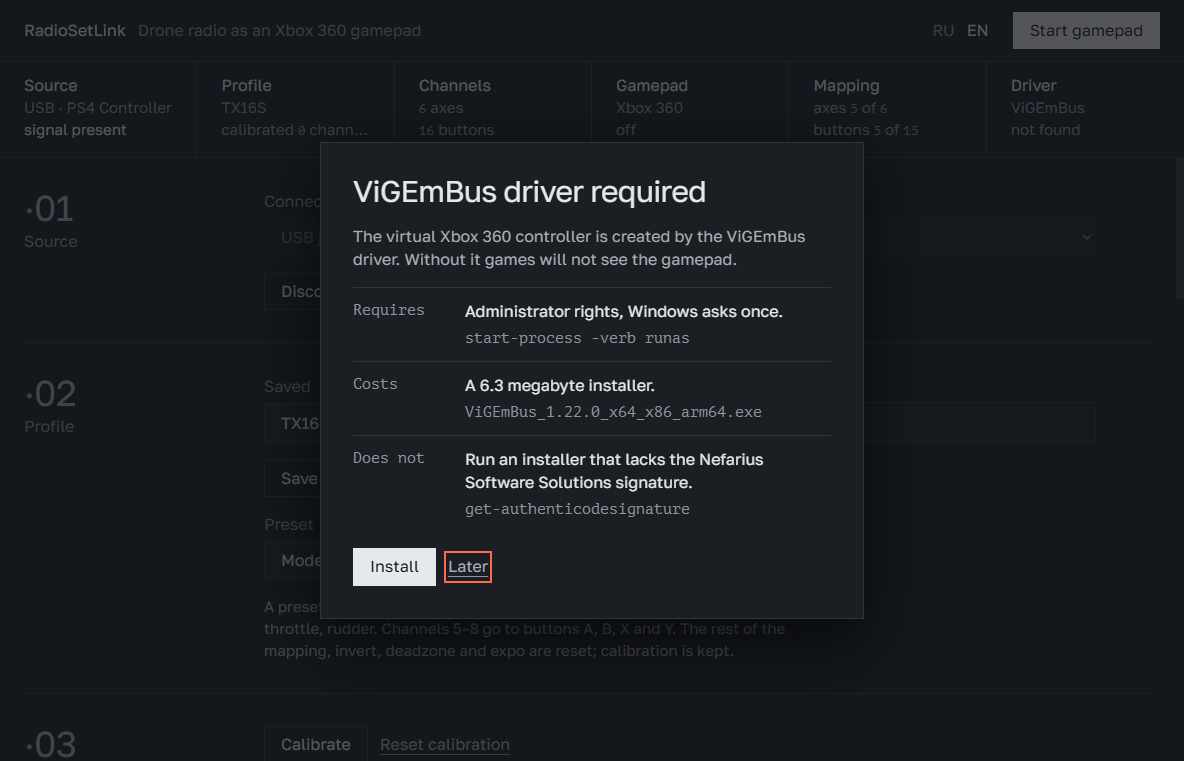
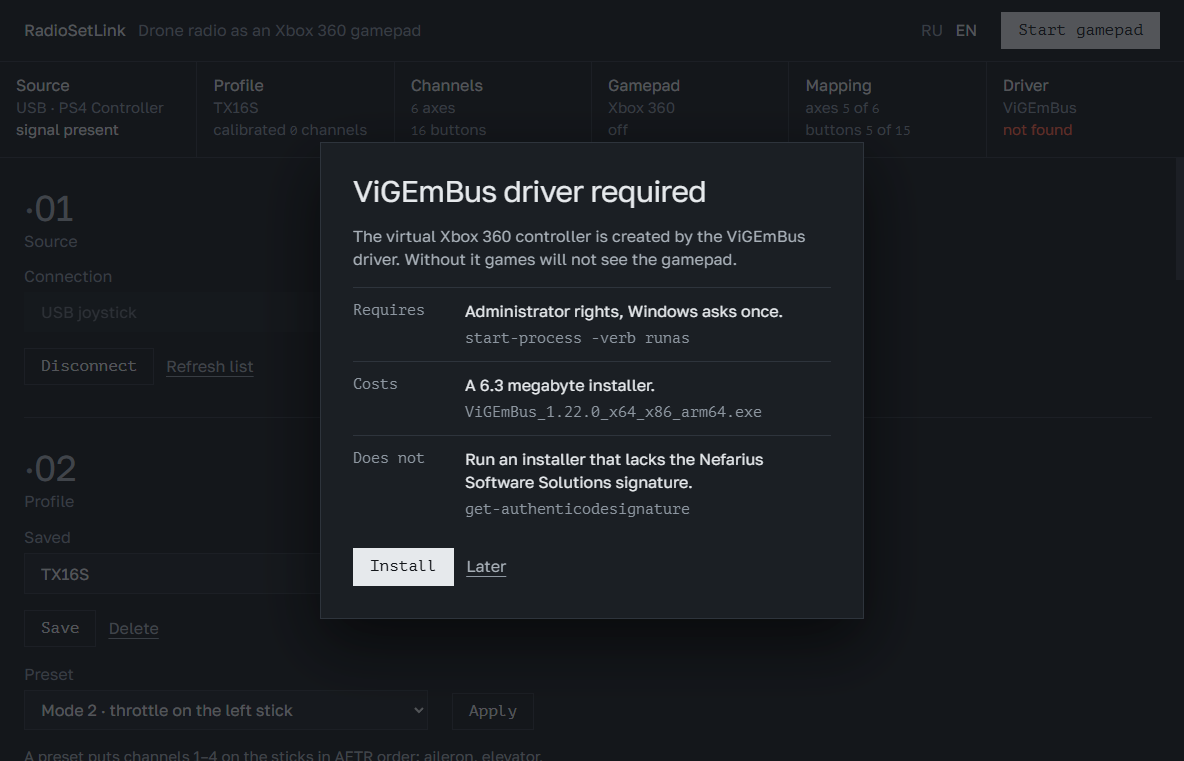
Give capture modes the one colour and fix the narrow-window table
A pressed Assign or Calibrate button took the light fill of the main
action, so "Listening…" looked like the most important button on the
screen. It is a mode that takes over the input until pressed again,
so it is framed in coral now, and lit gamepad keys are a raised fill
in a light frame.

The module facts on the hover fill were 4.37:1 and a missing driver
was not marked, although the notes promised both. Buttons are set in
PT Mono like the reference app, the section labels move above the
tables below 1240 pixels so the axes table stops scrolling sideways,
and the window opens on the page colour instead of black.

diff --git a/rsl/ui/style.css b/rsl/ui/style.css
@@ -22,7 +22,8 @@
   --text: #e6e9ec;
   --text-soft: #a8b0b8;
   --text-dim: #8d96a0;
-  /* The one colour means a deviation: no signal, an error, a missing driver. */
+  /* The one colour means attention: no signal, an error, a missing driver,
+     a capture mode holding the input. */
   --accent: #ff6b4a;
   --on-accent: #130603;
   --bad: var(--accent);
@@ -144,7 +145,7 @@ th {
   display: flex;
   flex-direction: column;
   gap: 0;
-  padding: var(--s-3) var(--s-6) var(--s-4);
+  padding: var(--s-3) var(--s-4) var(--s-4);
   border-right: 1px solid var(--hairline);
   color: inherit;
   text-decoration: none;
@@ -155,8 +156,9 @@ th {
   border-right: 0;
 }
 
+/* --raised, not --hover: the dim facts on --hover are 4.37:1. */
 .module:hover {
-  background: var(--hover);
+  background: var(--raised);
 }
 
 .module b {
@@ -352,6 +354,7 @@ input[type="checkbox"]:checked {
   background: transparent;
   color: var(--text);
   font: inherit;
+  font-family: var(--font-mono);
   line-height: 1.2;
   white-space: nowrap;
   cursor: pointer;
@@ -379,10 +382,12 @@ input[type="checkbox"]:checked {
   font-size: var(--t-small);
 }
 
+/* Pressed means a capture mode that takes over the input until it is
+   pressed again, so it carries the one colour, not the main-action fill. */
 .btn[aria-pressed="true"] {
-  border-color: var(--text);
-  background: var(--text);
-  color: var(--ground);
+  border-color: var(--accent);
+  background: transparent;
+  color: var(--accent);
 }
 
 .btn:disabled {
@@ -619,8 +624,8 @@ input[type="checkbox"]:checked {
 
 .key.on {
   border-color: var(--text);
-  background: var(--text);
-  color: var(--ground);
+  background: var(--raised);
+  color: var(--text);
 }
 
 .scroll {
@@ -748,7 +753,7 @@ input[type="checkbox"]:checked {
   font-size: var(--t-small);
 }
 
-@media (max-width: 900px) {
+@media (max-width: 1240px) {
   .band {
     grid-template-columns: 1fr;
     gap: var(--s-3);

diff --git a/rsl/ui/app.js b/rsl/ui/app.js
@@ -399,7 +399,7 @@ function renderModules(state) {
   });
 
   const driver = state.driver ?? { stage: "installed", progress: 0 };
-  setModule("modDriver", driver.stage === "installed", driver.stage === "failed", {
+  setModule("modDriver", driver.stage === "installed", driver.stage === "failed" || driver.stage === "missing", {
     factDriverState: t(`fact.driver.${driver.stage}`, { p: Math.round(driver.progress * 100) }),
   });
 }

diff --git a/rsl/ui/i18n.js b/rsl/ui/i18n.js
@@ -16,7 +16,7 @@ const I18N = {
     "fact.src.wait": "ждём устройство",
     "fact.src.nosignal": "нет сигнала",
     "fact.src.live": "сигнал есть",
-    "fact.cal": "откалибровано {n}",
+    "fact.cal": "калибровка {n}",
     "fact.pad.on": "включён",
     "fact.pad.off": "выключен",
     "fact.pad.error": "выключен из-за ошибки",

diff --git a/rsl/app.py b/rsl/app.py
@@ -23,7 +23,7 @@ def main():
         width=1280,
         height=840,
         min_size=(1040, 680),
-        background_color="#000000",
+        background_color="#14171b",
     )
     try:
         webview.start(icon=str(ICON))

diff --git a/docs/release-notes.md b/docs/release-notes.md
@@ -6,9 +6,12 @@
 - Фон ровный тёмно-серый вместо чёрного, заголовки крупные и обычного веса.
 - Шрифты Golos Text и PT Mono вместо Jost и Cascadia Mono, оба вшиты в
   программу.
-- Жёлтого акцента больше нет. Цвет остался один, коралловый, и помечает только
-  отклонение: нет сигнала, ошибку, отсутствующий драйвер. Включённое состояние
-  и нажатые кнопки показаны светлой заливкой.
+- Жёлтого акцента больше нет. Цвет остался один, коралловый: им помечены нет
+  сигнала, ошибка, отсутствующий драйвер и режимы «Слушаю…» и калибровки, пока
+  они перехватывают ввод. Нажатые кнопки геймпада отмечены рамкой, светлая
+  заливка осталась у главной кнопки и включённых галочек.
+- Кнопки набраны моноширинным PT Mono. В окне уже 1240 пикселей подписи
+  разделов встают над таблицами, и таблица осей не уходит вбок.
 - Надписи набраны обычным регистром, а не строчными. Кнопки геймпада подписаны
   A, B, X, Y, LB и RB, как на контроллере.
 - В ряду модулей под шапкой нет значков, остались названия и числа.
@@ -39,9 +42,12 @@ from 1.1.0 carry over.
 - A flat dark grey background instead of black, with large headings in regular
   weight.
 - Golos Text and PT Mono instead of Jost and Cascadia Mono, both bundled.
-- The yellow accent is gone. One colour is left, coral, and it marks only a
-  deviation: no signal, an error, a missing driver. An enabled state and pressed
-  buttons take a light fill.
+- The yellow accent is gone. One colour is left, coral, and it marks no signal,
+  an error, a missing driver, and the listening and calibration modes while they
+  hold the input. Pressed gamepad buttons get a frame; the light fill is left to
+  the main button and ticked boxes.
+- Buttons are set in PT Mono. Below 1240 pixels the section labels move above
+  the tables, so the axes table no longer scrolls sideways.
 - Text keeps its normal case instead of lower case everywhere. The gamepad
   buttons read A, B, X, Y, LB and RB, as on the controller.
 - The module row under the header has no icons, only names and numbers.

diff --git a/README.md b/README.md
@@ -176,8 +176,8 @@ build_exe.py    сборка в exe
 Код под лицензией MIT, см. [LICENSE](LICENSE).
 
 Оформление: ровный тёмно-серый фон, заголовки обычным весом и один цвет,
-`#ff6b4a`, которым помечено только отклонение — нет сигнала, ошибка, нет
-драйвера. Худший контраст текста 4.94:1 при норме WCAG AA 4.5:1. Шрифты
+`#ff6b4a`, которым помечено только то, что требует внимания: нет сигнала,
+ошибка, нет драйвера и режим, который перехватывает ввод. Худший контраст текста 4.94:1 при норме WCAG AA 4.5:1. Шрифты
 [Golos Text](https://github.com/googlefonts/golos-text) и
 [PT Mono](https://fonts.google.com/specimen/PT+Mono) лежат в `rsl/ui/fonts`
 под лицензией SIL OFL 1.1 (`OFL-GolosText.txt`, `OFL-PTMono.txt`).

diff --git a/README.en.md b/README.en.md
@@ -175,8 +175,8 @@ regenerated by `assets\make_icon.py`, which needs Pillow too.
 The code is MIT licensed, see [LICENSE](LICENSE).
 
 The look is a flat dark grey background, headings in regular weight and one
-colour, `#ff6b4a`, used only for a deviation: no signal, an error, a missing
-driver. The worst text contrast is 4.94:1 against the WCAG AA minimum of 4.5:1.
+colour, `#ff6b4a`, used only for what needs attention: no signal, an error, a
+missing driver, and a mode that holds the input. The worst text contrast is 4.94:1 against the WCAG AA minimum of 4.5:1.
 The [Golos Text](https://github.com/googlefonts/golos-text) and
 [PT Mono](https://fonts.google.com/specimen/PT+Mono) fonts ship in
 `rsl/ui/fonts` under SIL OFL 1.1 (`OFL-GolosText.txt`, `OFL-PTMono.txt`).
